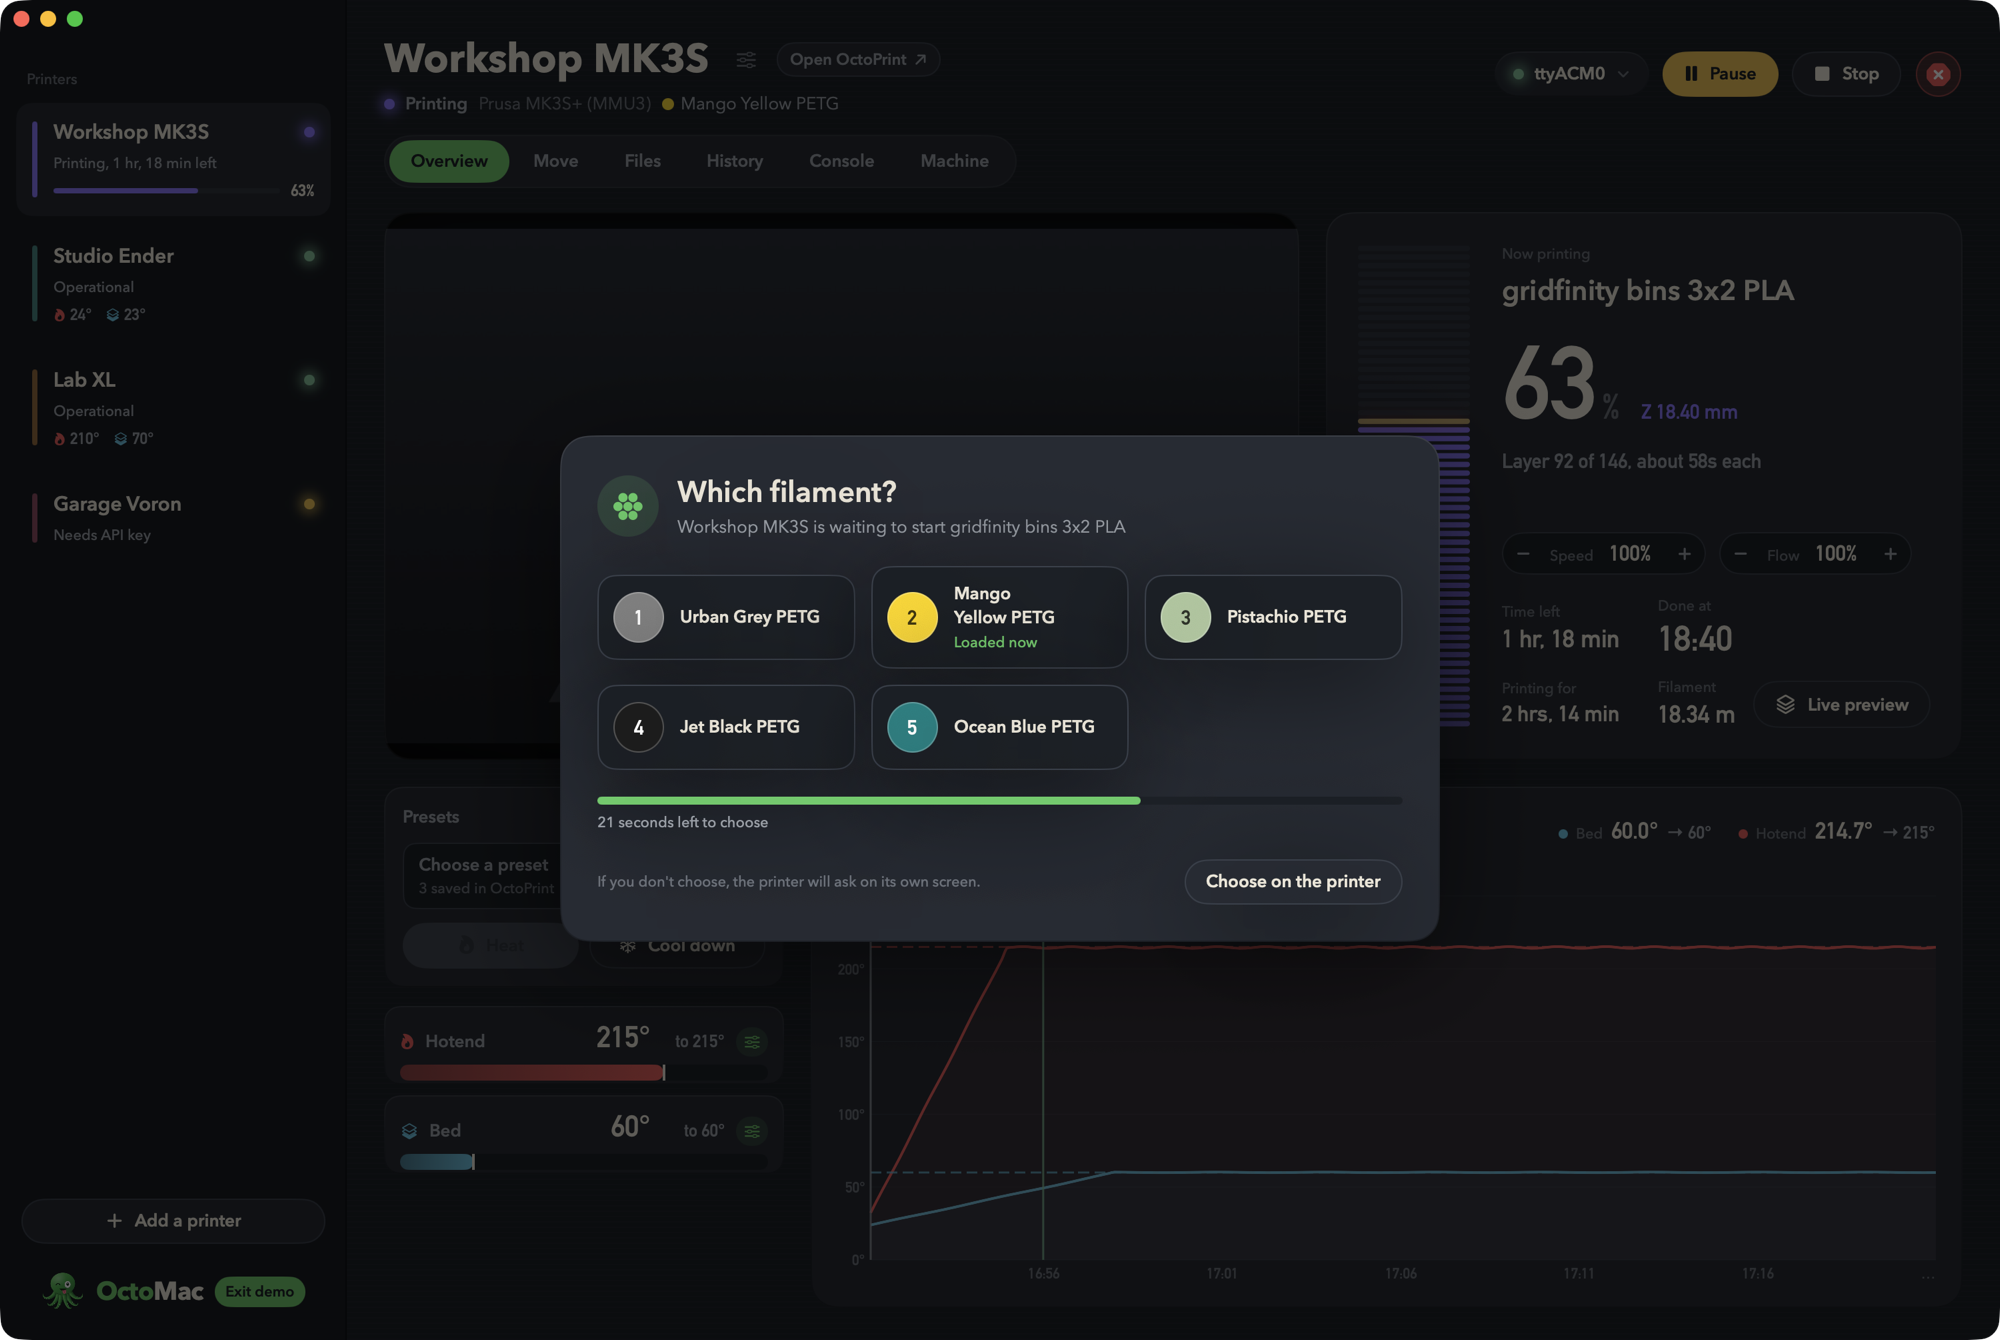
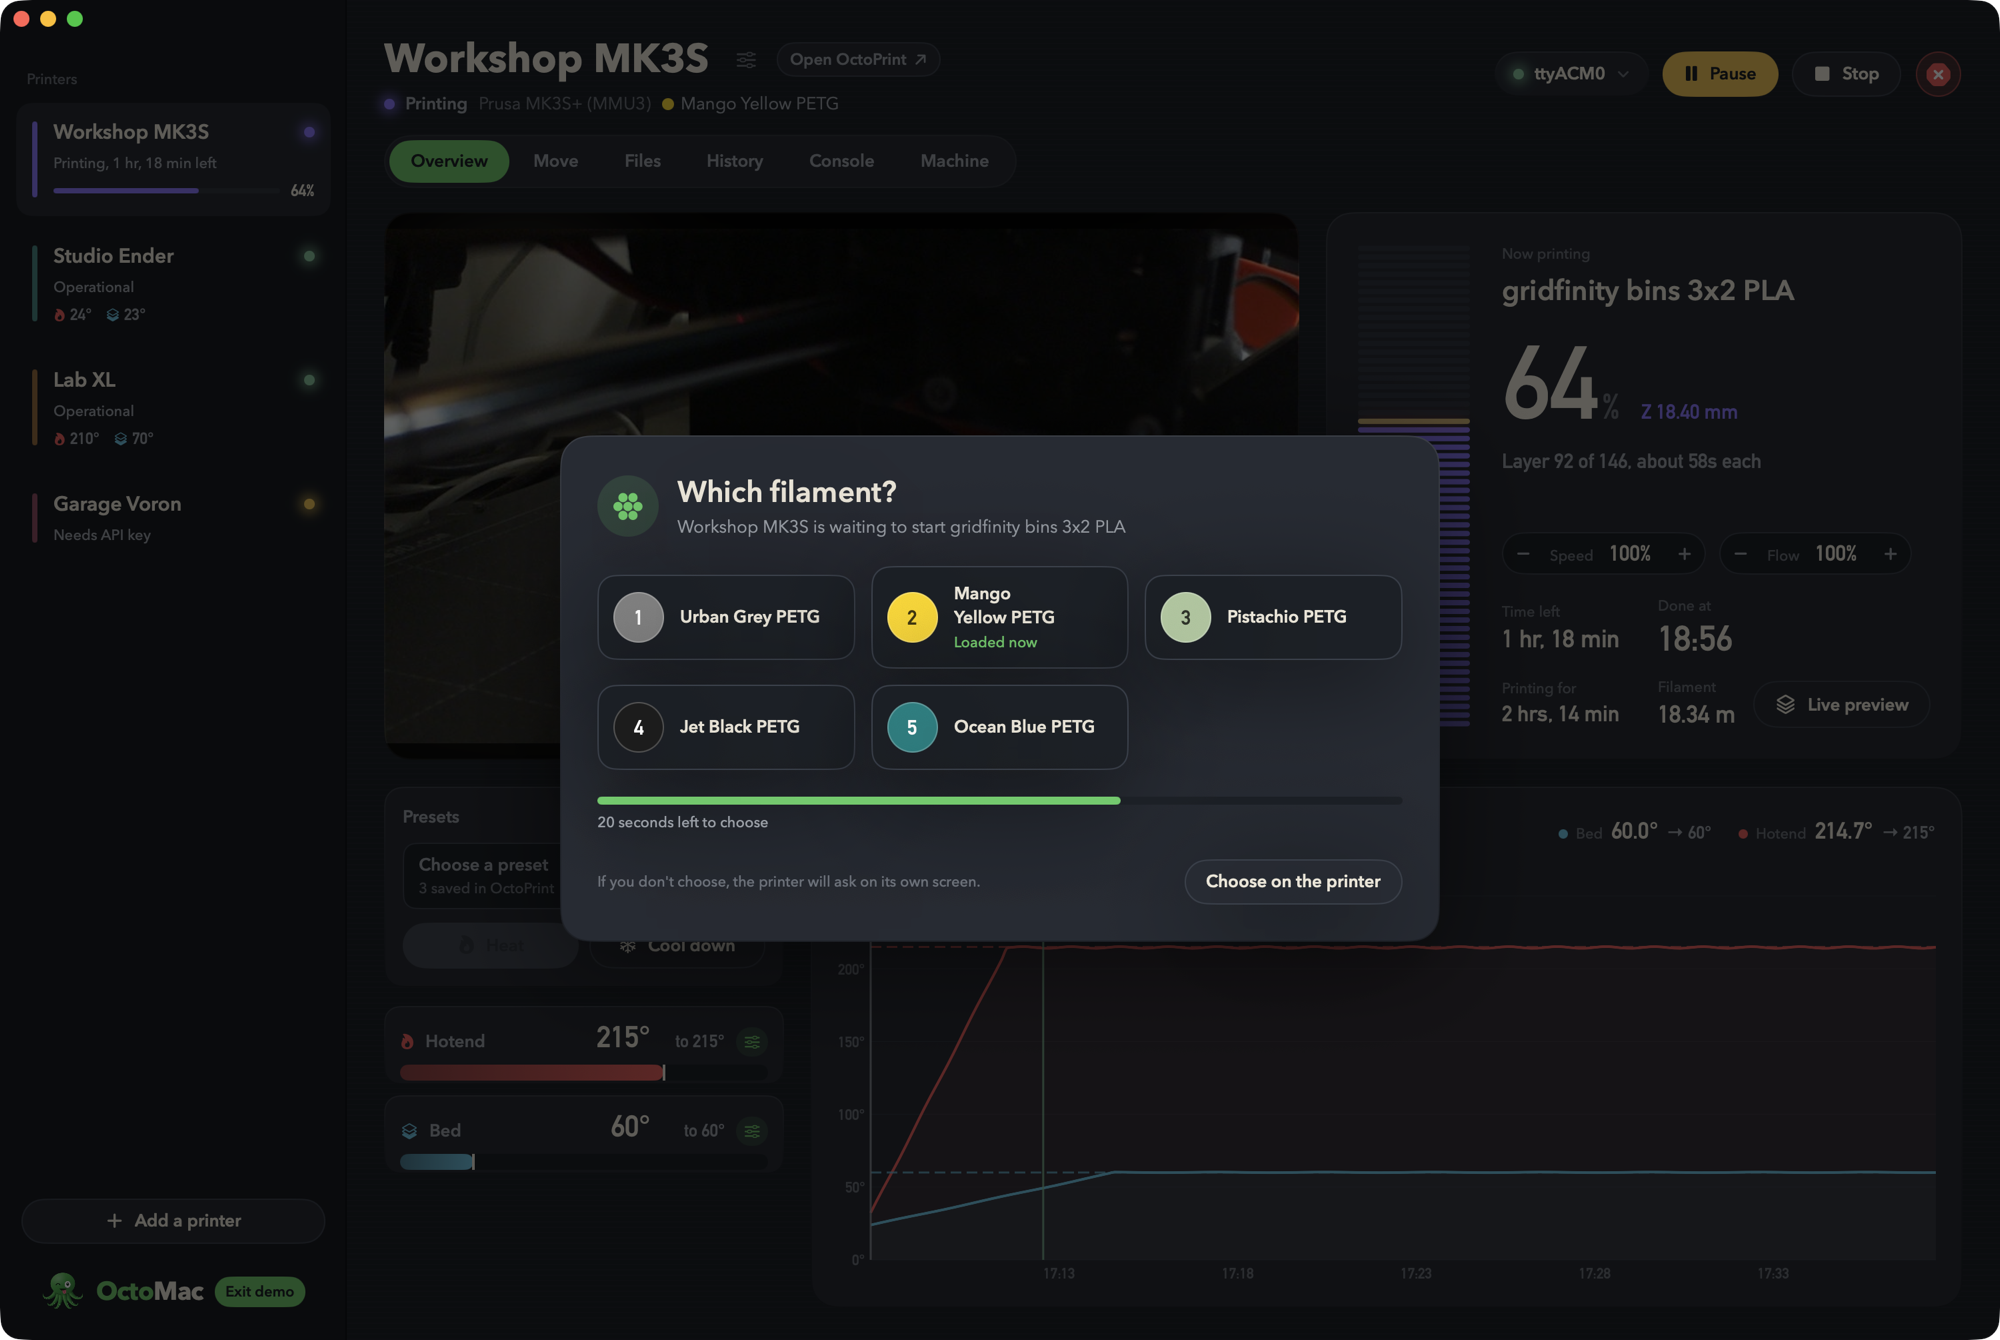
Demo mode shows a real camera picture
A photo of a Prusa's bed, extruder and Z screw (cropped to just the printer)
replaces the drawn stand-in, and the README screenshots are retaken.

diff --git a/Sources/OctoMac/Model/PrinterSession.swift b/Sources/OctoMac/Model/PrinterSession.swift
@@ -1116,41 +1116,9 @@ extension PrinterSession {
         }
     }
 
-    /// A stand-in camera picture for demo mode: a print bed with a grid.
+    /// A real camera picture of a printer for demo mode, bundled with the app (Support/DemoCamera.jpg).
     private static func demoCameraFrame(title: String) -> Data {
-        let view = ZStack {
-            LinearGradient(colors: [Color(hex: 0x2A2F37), Color(hex: 0x15181C)], startPoint: .top, endPoint: .bottom)
-            Canvas { context, size in
-                // A bed in perspective.
-                var bed = Path()
-                bed.move(to: CGPoint(x: size.width * 0.18, y: size.height * 0.92))
-                bed.addLine(to: CGPoint(x: size.width * 0.82, y: size.height * 0.92))
-                bed.addLine(to: CGPoint(x: size.width * 0.66, y: size.height * 0.42))
-                bed.addLine(to: CGPoint(x: size.width * 0.34, y: size.height * 0.42))
-                bed.closeSubpath()
-                context.fill(bed, with: .color(Color(hex: 0x3A3F47)))
-                for i in 1..<8 {
-                    let t = CGFloat(i) / 8
-                    let bottomX = size.width * (0.18 + 0.64 * t), topX = size.width * (0.34 + 0.32 * t)
-                    let line = Path { p in p.move(to: CGPoint(x: bottomX, y: size.height * 0.92)); p.addLine(to: CGPoint(x: topX, y: size.height * 0.42)) }
-                    context.stroke(line, with: .color(.white.opacity(0.08)), lineWidth: 1)
-                }
-                // A part on the bed.
-                let part = CGRect(x: size.width * 0.42, y: size.height * 0.56, width: size.width * 0.16, height: size.height * 0.18)
-                context.fill(Path(roundedRect: part, cornerRadius: 4), with: .color(Color(hex: 0xF29E4C)))
-            }
-            VStack {
-                Spacer()
-                Text("Demo camera").font(.system(size: 13, weight: .semibold)).foregroundStyle(.white.opacity(0.5))
-                    .padding(.bottom, 10)
-            }
-        }
-        .frame(width: 640, height: 360)
-        let renderer = ImageRenderer(content: view)
-        renderer.scale = 2
-        guard let image = renderer.cgImage,
-              let data = NSBitmapImageRep(cgImage: image).representation(using: .jpeg, properties: [.compressionFactor: 0.85]) else { return Data() }
-        return data
+        Bundle.main.url(forResource: "DemoCamera", withExtension: "jpg").flatMap { try? Data(contentsOf: $0) } ?? Data()
     }
 
     private static func demoFile(_ name: String, folder: String?, time: Double?, length: Double?, size: Int, daysAgo: Double, success: Bool?, model: Bool = false) -> JSONValue {
